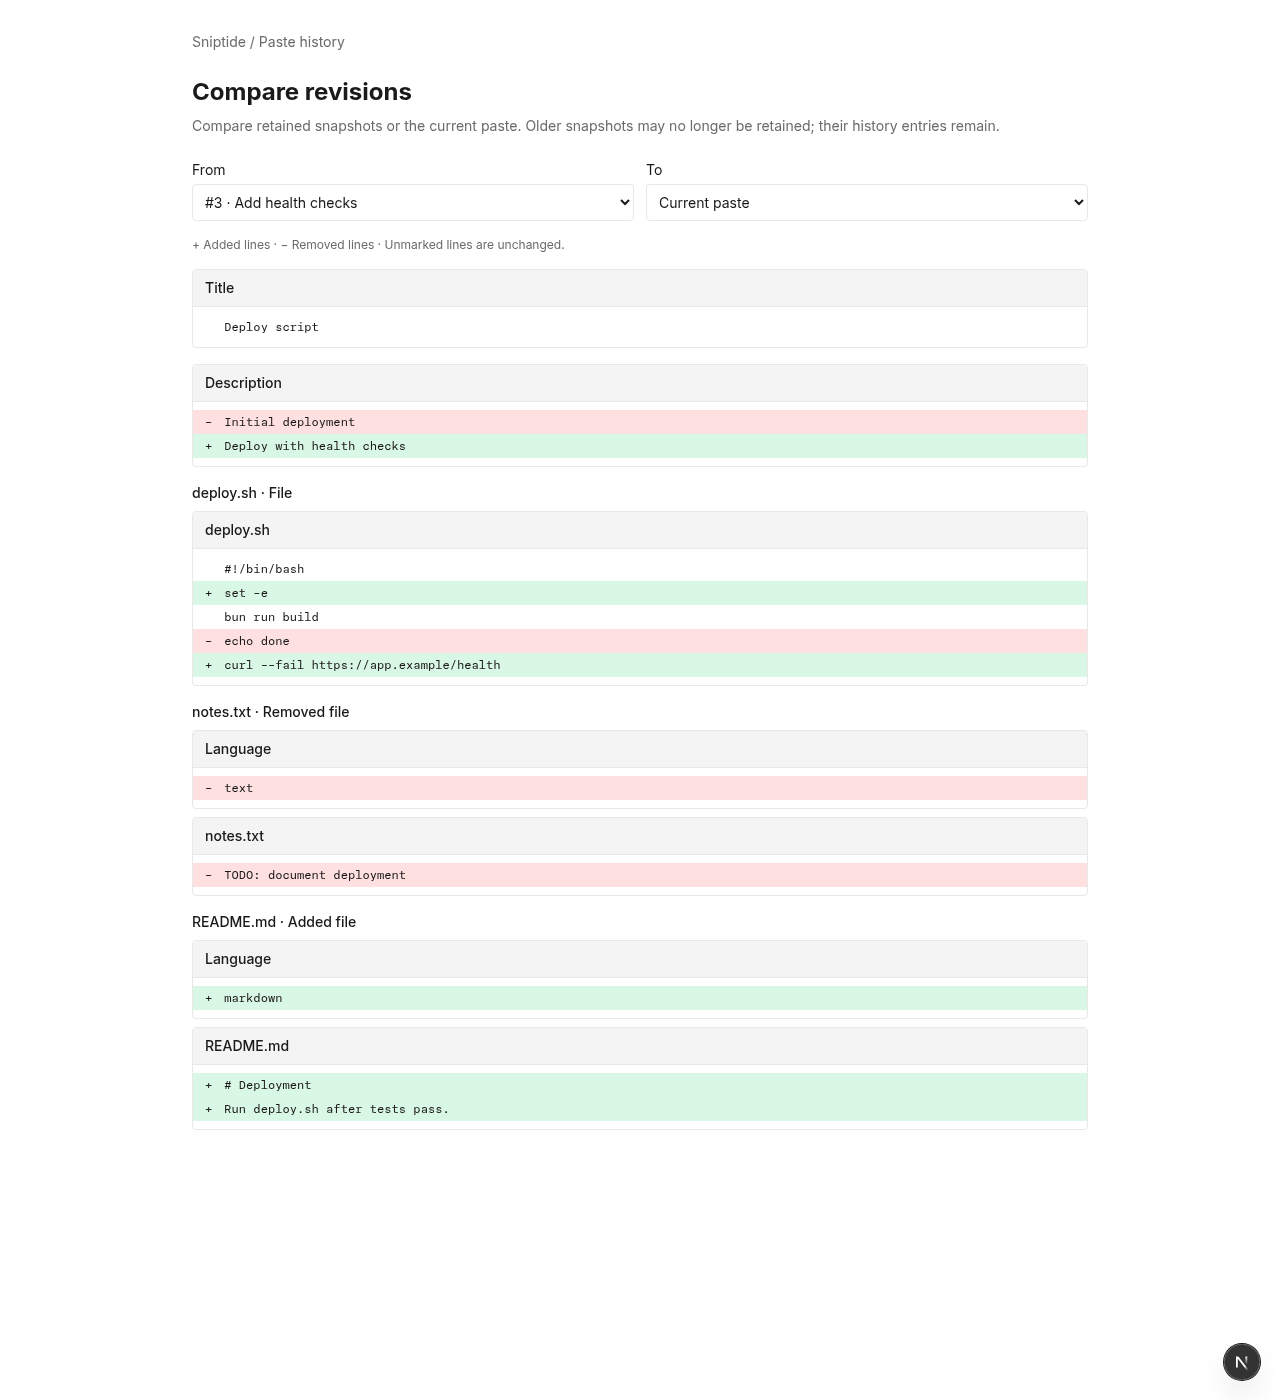
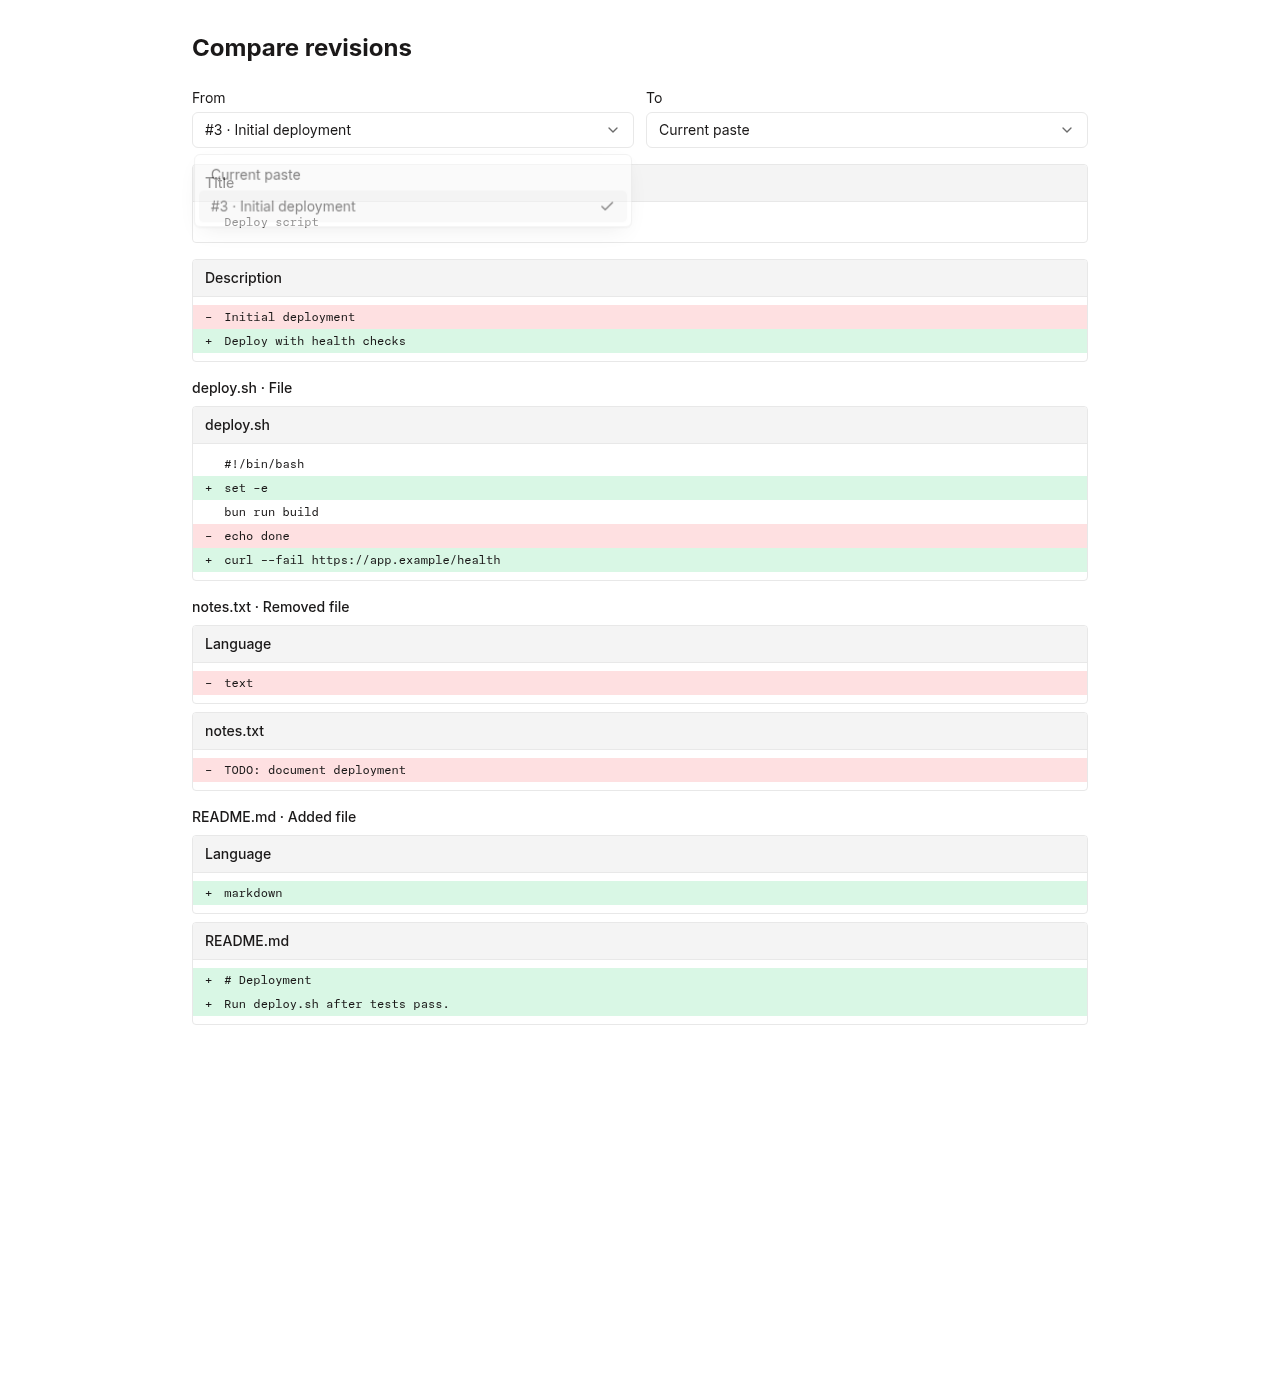
fix(web): simplify revision comparison controls (WRK-294)

diff --git a/apps/web/components/paste/compare-revisions.tsx b/apps/web/components/paste/compare-revisions.tsx
@@ -1,13 +1,14 @@
 "use client"
 
 import { Button } from "@sniptide/ui/components/button"
+import { Dialog, DialogClose, DialogContent, DialogTitle } from "@sniptide/ui/components/dialog"
 import {
-  Dialog,
-  DialogClose,
-  DialogContent,
-  DialogDescription,
-  DialogTitle,
-} from "@sniptide/ui/components/dialog"
+  Select,
+  SelectContent,
+  SelectItem,
+  SelectTrigger,
+  SelectValue,
+} from "@sniptide/ui/components/select"
 import { useTranslations } from "next-intl"
 import { useState } from "react"
 import { loadComparisonRevisions } from "@/lib/pastes/actions"
@@ -31,23 +32,35 @@ export function RevisionComparison({
     id === "current" ? current : revisions.find((r) => String(r.id) === id)?.snapshot
   const a = snapshot(before),
     b = snapshot(after)
+  const items = [
+    { value: "current", label: t("compareCurrent") },
+    ...revisions.map((revision) => ({
+      value: String(revision.id),
+      label: `#${revision.id} · ${revision.message}`,
+    })),
+  ]
   const select = (label: string, value: string, update: (value: string) => void) => (
-    <label className="flex min-w-0 flex-1 flex-col gap-1 text-sm">
-      {label}
-      <select
-        aria-label={label}
-        className="w-full rounded border border-border bg-background p-2"
+    <div className="flex min-w-0 flex-1 flex-col gap-1 text-sm">
+      <span>{label}</span>
+      <Select
         value={value}
-        onChange={(e) => update(e.target.value)}
+        onValueChange={(next) => {
+          if (next !== null) update(next)
+        }}
+        items={items}
       >
-        <option value="current">{t("compareCurrent")}</option>
-        {revisions.map((r) => (
-          <option key={r.id} value={r.id}>
-            #{r.id} · {r.message}
-          </option>
-        ))}
-      </select>
-    </label>
+        <SelectTrigger aria-label={label} className="w-full min-w-0">
+          <SelectValue className="truncate" />
+        </SelectTrigger>
+        <SelectContent>
+          {items.map((item) => (
+            <SelectItem key={item.value} value={item.value}>
+              {item.label}
+            </SelectItem>
+          ))}
+        </SelectContent>
+      </Select>
+    </div>
   )
   const field = (name: string, oldValue: string, newValue: string) => (
     <section key={name} className="overflow-hidden rounded border border-border">
@@ -73,7 +86,6 @@ export function RevisionComparison({
         {select(t("compareFrom"), before, setBefore)}
         {select(t("compareTo"), after, setAfter)}
       </div>
-      <p className="text-xs text-muted-foreground">{t("compareLegend")}</p>
       {!a || !b ? (
         <p role="status">{t("compareUnavailable")}</p>
       ) : before === after ? (
@@ -143,9 +155,11 @@ export function CompareRevisions({ slug, current }: { slug: string; current: Sna
         {t("compareRevisions")}
       </Button>
       <Dialog open={open} onOpenChange={setOpen}>
-        <DialogContent className="max-h-[85dvh] max-w-4xl overflow-y-auto">
+        <DialogContent
+          aria-describedby={undefined}
+          className="max-h-[85dvh] max-w-4xl overflow-y-auto"
+        >
           <DialogTitle>{t("compareRevisions")}</DialogTitle>
-          <DialogDescription>{t("compareRetention")}</DialogDescription>
           {error ? (
             <p role="alert">{t("compareError")}</p>
           ) : revisions ? (
